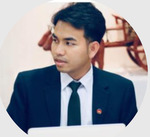
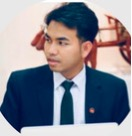
Update Member List
Added more english names, and fixed photo cropping.

diff --git a/data/members/2025.js b/data/members/2025.js
@@ -6,23 +6,23 @@ const standingCommittee = [
     },
     {
         position: "Vice President",
-        name: "សុឹម សុខចំរើន",
-        imageUrl: "/facebook.png"
+        name: "Sim Sokchamroeun",
+        imageUrl: "/images/structures/2025/Sim_Sokchamroeun.jpg"
     },
     {
         position: "Vice President",
-        name: "ឡុង វណ្ណា",
-        imageUrl: "/facebook.png"
+        name: "Long Vanna",
+        imageUrl: "/images/structures/2025/Long_Vanna.jpg"
     },
     {
         position: "Vice President",
-        name: "លឹម សុីសុីមុីមុី",
-        imageUrl: "/facebook.png"
+        name: "Lim Sysy Meymey",
+        imageUrl: "/images/structures/2025/Lim_Sysy_Meymey.jpg"
     },
     {
         position: "Vice President",
-        name: "ផារ័ត្ន សត្យា",
-        imageUrl: "/facebook.png"
+        name: "Pharath Sathya",
+        imageUrl: "/images/structures/2025/Pharath_Sathya.jpg"
     },
 ];
 
@@ -57,8 +57,8 @@ const advisoryBoard = [
     },
     {
         position: "Media Committee Advisor",
-        name: "នេត ឥន្ទនរាសុទ្ធីដ្ឋេព",
-        imageUrl: "/facebook.png"
+        name: "Neth Inrasothythep",
+        imageUrl: "/images/structures/2025/Neth_Inrasothythep.jpg"
     },
     {
         position: "Event Planning Committee Advisor",
@@ -90,12 +90,12 @@ const secretaries = [
     },
     {
         position: "Secretary",
-        name: "Vuthy Chantreapich", // edit later
+        name: "Vuthy Chantreapich", 
         imageUrl: "/images/structures/2025/Vuthy_Chantreapich.jpg"
     },
     {
         position: "Secretary",
-        name: "Prin Sokmokta", // edit later
+        name: "Prin Sokmokta", 
         imageUrl: "/images/structures/2025/Prin_Sokmokta.jpg"
     }
 ]
